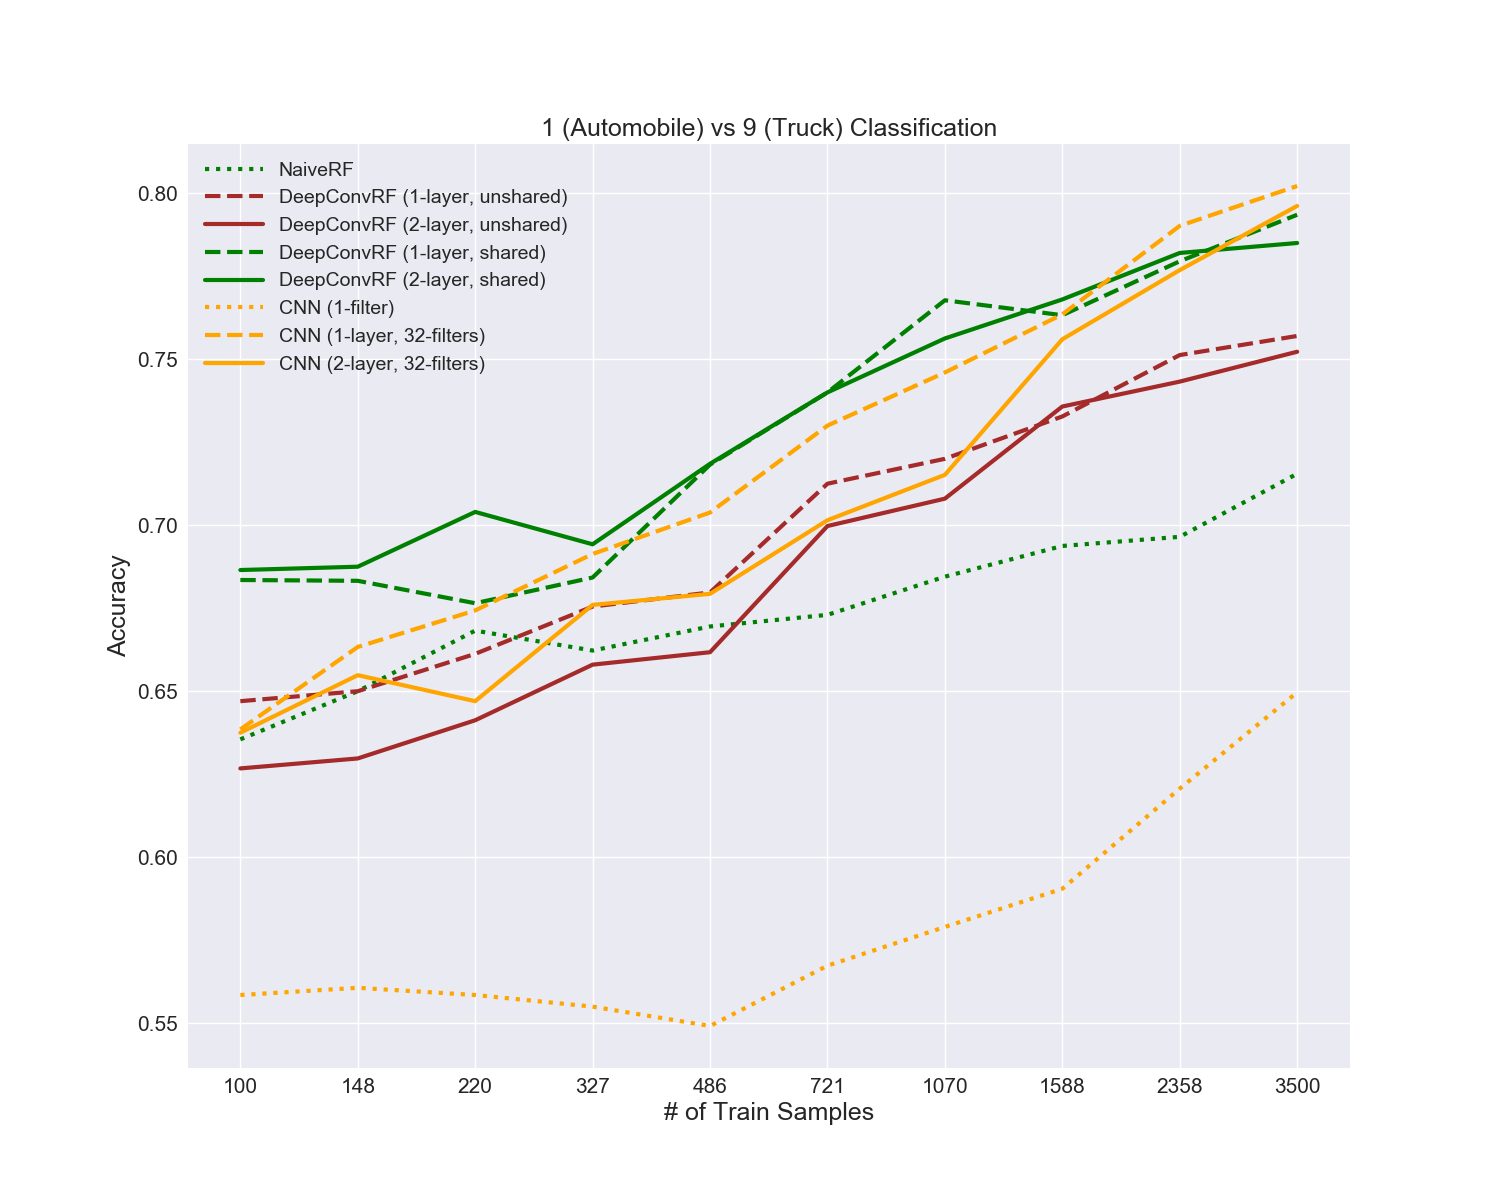
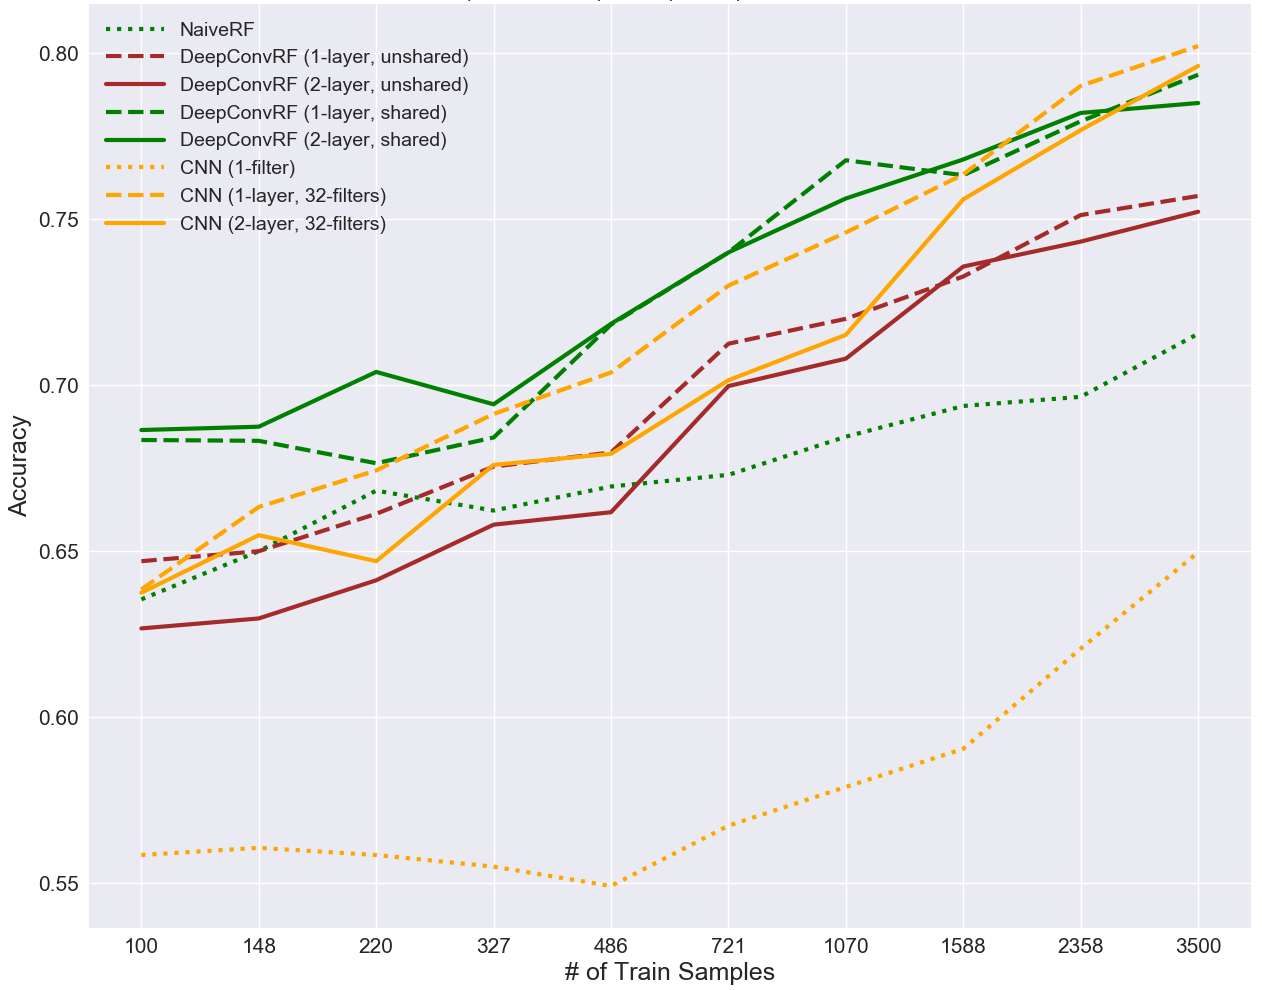
goldman meeting

diff --git a/goldman19.html b/goldman19.html
@@ -35,8 +35,16 @@ Joshua T. Vogelstein
 ### What is Big Biomedical Data Science? 
 
 
-A field that develops and applies  algorithms, statistical models, and (database) systems  to 
+A field that develops and applies  algorithms, statistical models, and (database / machine learning) systems  to 
 manage,  visualize,  wrangle,  summarize,   generalize, and control big data to improve health and healthcare.
+
+--
+
+<br>
+
+<img src="images/big_biomedical_data_science.svg" STYLE="width:100%"/>
+
+
 
 
 ---
@@ -48,7 +56,7 @@ class: middle, inverse
 
 ### Reason #1: Evolution 
 
-- Human perceptual capacities and 1 billion years 
+- Human perceptual capacities and a few billion years 
   - visual (100 million)
   - gustatory (1 million)
   - auditory (40 million) 
@@ -62,39 +70,46 @@ class: middle, inverse
       - is that a tiger?
 
 
----
-<!-- class:inverse -->
-
-### Which is computer generated?
-
-
-<img src="images/bitstring8.png" STYLE="width:50%"/>
-<img src="images/bitstring4.png" STYLE="width:50%;"/>
-
 
 ---
+class:inverse
 
-### Reason #2: Grazing Goat Starves
+### Reason #2: We Don't Know What Random Looks Like
+
+<img src="images/bitstring8.png" STYLE="width:100%"/>
+
+---
+class:inverse
+
+### Reason #2: We Don't Know What Random Looks Like
+
+
+<img src="images/bitstring4.png" STYLE="width:100%;"/>
+
+
+---
+
+### Reason #3: Grazing Goat Starves
 
 <img src="images/grazing-goat2.png" STYLE="width:100%"/>
 
 
 ---
 
-#### Reason #3: How many circles per square?
+#### Reason #4: How many circles per square?
 
 
 <img src="images/circle_in_square.png" STYLE="width:50%"/>
 
-- ratio of volume of ball to cube with radius 1
-- volume of ball $\frac{\pi^{n/2}}{(n/2 +1)!}$ &rarr; 0
+- ratio of volume of ball to cube with diameter 1
 - volume of cube &rarr; 1
+- volume of ball $\frac{\pi^{n/2}}{(n/2 +1)!}$ &rarr; 0
 - ball contains no volume in high-dimensions
 
 
 ---
 
-#### Reason #3: How many circles per square?
+#### Reason #4: How many circles per square?
 
 <img src="images/porcupine.jpg" STYLE="width:50%"/>
 
@@ -105,7 +120,7 @@ class: middle, inverse
 
 ---
 
-### Reason #4: Estimate mean 
+### Reason #5: Estimate mean 
 
 
 - sample $x \sim \mathcal{N}_1(\mu,1)$, estimate $\mu$?
@@ -173,7 +188,7 @@ wait 1,000 generations
 ### Proposed Solution
 
 
-1. Work with an expert 
+1. Work together: AI + domain experts 
 2. Flexibly incorporate domain expertise 
 3. Learn low-dimensional latent structure
 
@@ -196,14 +211,12 @@ wait 1,000 generations
 ### Proposed Solution
 
 
-1. Work with an expert 
+1. Work together: AI + domain experts 
 2. Flexibly incorporate domain expertise 
 3. Learn low-dimensional latent structure
-
-
-- We need a minimum of n points to describe a line in n dimensions
-- When p >> n, we need to **learn**  "line" works best 
-- There are infinitely many, so need experts to help guide search 
+  - We need $\geq n$ points to describe a line in $n$ dimensions
+  - When $p > n$, we need to **learn**  a "line" works best 
+  - There are $\infty$, so need experts to help guide search 
 
 
 ---
@@ -217,10 +230,11 @@ wait 1,000 generations
 
 ---
 
-### A Glimmer of Hope 
+### A Glimmer of Hope: <img src="images/automobile1.png" STYLE="width:10%"/> v <img src="images/truck10.png" STYLE="width:10%"/>
 
 
-<img src="images/rf_deepconvrf_cnn_comparisons3.png" STYLE="width:100%"/>
+
+<img src="images/rf_deepconvrf_cnn_comparisons3.png" STYLE="width:90%"/>
 
 
 ---
@@ -229,10 +243,10 @@ wait 1,000 generations
 
 - big biomedical data science is hard 
 - success requires: 
-  - converting your knowledge (flexibly) into learning systems 
+  - (swallowing pride)
+  - converting your knowledge (flexibly) into equations
   - leveraging your knowledge (flexibly) into learning systems 
-- swallowing pride
-
+ 
 
 
 ---

diff --git a/code/spikes.m b/code/spikes.m
@@ -337,3 +337,7 @@ int=round(rand*9+1)
 if print_fig, 
     export_fig(['../images/bitstring', num2str(int),'.png']); 
 end
+
+
+
+[
